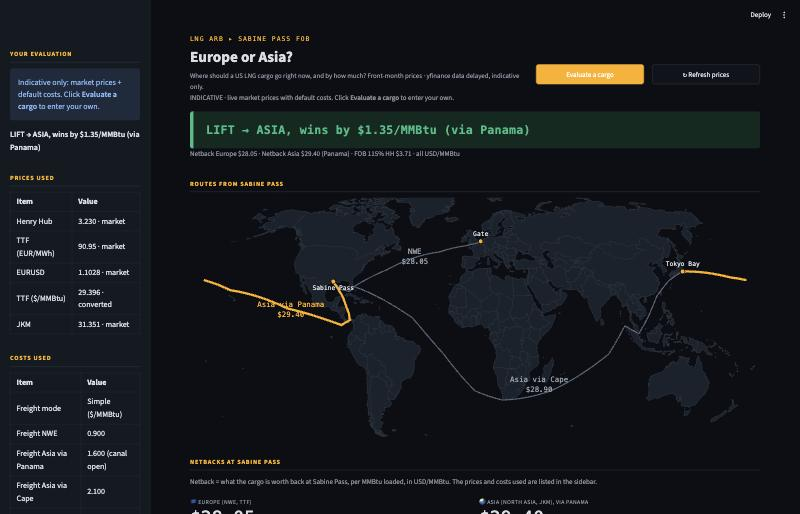
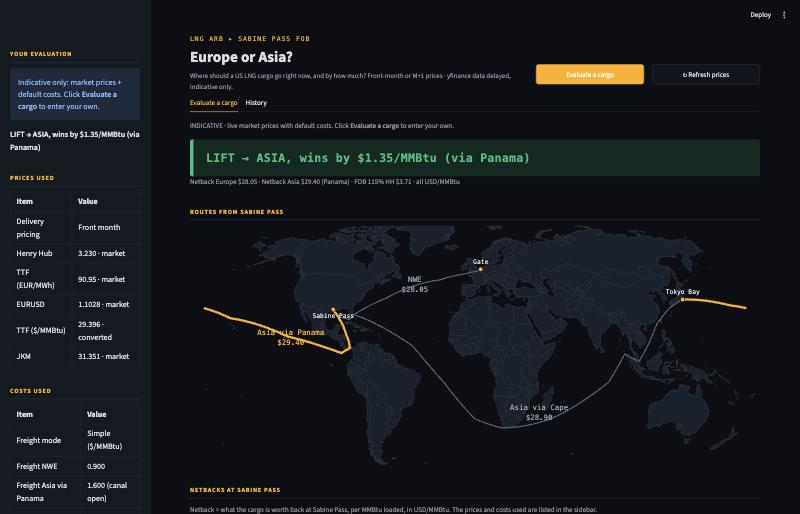
V3 complete: final check against the spec, retry after a failed history download, README and screenshots updated

diff --git a/app.py b/app.py
@@ -937,6 +937,9 @@ def history_tab():
         names = ", ".join(series.name for series in failed)
         st.error(f"Could not load the history for: {names}. Check your internet connection "
                  "and reload the page later. The 'Evaluate a cargo' tab still works.")
+        # Forget this failed attempt, so the next page load tries again
+        # (otherwise the failure would be kept in memory for 24 hours)
+        load_history.clear()
         return
 
     inputs = history_inputs()

diff --git a/README.md b/README.md
@@ -12,8 +12,12 @@ It also answers the offtaker's question behind it: **lift the cargo, or cancel i
 
 ## What it does
 
-1. **Pulls market prices** (delayed): Henry Hub, TTF and EURUSD, plus the latest JKM settlement.
-2. **Opens an "Evaluate a cargo" pop-up**. The gas prices are prefilled from the market and editable. Freight is entered in one of two modes:
+1. **Pulls market prices** (delayed): Henry Hub, TTF and EURUSD, the latest JKM settlement, and the HH and TTF contract months.
+2. **Opens an "Evaluate a cargo" pop-up**. The gas prices are prefilled from the market and editable. They can be priced two ways:
+   - **Front month:** HH and TTF front month.
+   - **M+1 delivery:** HH for the loading month (e.g. Dec-26) and TTF for the month the cargo arrives in Europe (Jan-27), the way a real cargo prices.
+
+   Freight is entered in one of two modes:
    - **Simple:** USD/MMBtu per route.
    - **Detailed:** a charter model (charter rate × round-trip days, Panama tolls, cargo size, boil-off), with a freight build-up table.
 3. **Gives the verdict straight away**, e.g. `LIFT → ASIA, wins by $0.90/MMBtu (via Panama)`, `LIFT → EUROPE`, `INDIFFERENT` or `CANCEL`.
@@ -23,11 +27,20 @@ It also answers the offtaker's question behind it: **lift the cargo, or cancel i
    - **breakeven charts** give the exact JKM and TTF levels where the cargo flips destination;
    - a **decision map** colours every JKM × freight combination by outcome.
 7. **Records what was done**: the sidebar keeps a summary of the evaluation, with every price labelled "market" or "your input".
-8. **Builds its own arb history**: every 5 minutes it re-prices the market and appends one row to a CSV log.
+8. **Logs the live arb**: every 5 minutes it re-prices the market and appends one row to a CSV log.
+9. **Shows 12 years of arb history** in a **History** tab: every month since mid-2014 priced with the same formulas, with
+   - the **arb over time**, one bar per month coloured by winner (the 2022 energy crisis, when Europe outbid Asia by up to $17/MMBtu, stands out);
+   - **win rates**: how often Europe, Asia, neither, or cancelling won, overall and per year;
+   - **seasonality**: the average spread per calendar month (Asia pays more from October to January);
+   - a **1Y / 3Y / 5Y / All** selector and a CSV download.
 
 ![Evaluate a cargo: detailed freight model](docs/evaluate_popup.jpg)
 
 ![Sensitivity: breakevens and decision map](docs/sensitivity.jpg)
+
+![History: the arb month by month since 2014](docs/history.jpg)
+
+![History: win rates by year and seasonality](docs/history_stats.jpg)
 
 ---
 
@@ -46,6 +59,8 @@ All values in **USD/MMBtu**, per MMBtu **loaded**.
 | Destination | `spread = Netback Asia − Netback Europe`. Below the threshold ($0.10 by default), the verdict is **Indifferent** |
 | Lift or cancel | The liquefaction fee is **sunk**, so the cargo is cancelled only if the best netback is below **115% HH**. A cargo can lose money after the fee and still be worth lifting |
 | Breakeven JKM | `regas Asia + (netback Europe + freight) ÷ (1 − boil-off)`, using the cheapest open Asia route |
+| M+1 delivery | Futures roll before the month starts, so in November the front month is December (loading) and M+1 is January (delivery). Yahoo tickers like `TTFF27.NYM` = TTF, **F** = January, 2027 |
+| History, per month | The same calculation, with that month's average HH, Europe gas and JKM prices and **today's** freight, regas and fees |
 
 *Netback = what the cargo is worth back at Sabine Pass after regasification, boil-off and shipping.*
 
@@ -57,7 +72,7 @@ All values in **USD/MMBtu**, per MMBtu **loaded**.
 
 - **One data module.** Every price enters through [`market_data.py`](market_data.py), as a standard `Quote` (value, unit, source, timestamp, status). No other file knows the vendor exists. Moving from yfinance to **Bloomberg, ICE or Platts** means changing that one file.
 - **Every price carries its source, timestamp and a status light.** 🟢 fresh (under 20 min) · 🟡 delayed (20 to 60 min) · 🔴 stale (over 60 min, or the fetch failed). A price converted from two inputs (TTF in USD) takes the older timestamp and the worse light.
-- **Never crashes on bad data.** If a feed is down, the app shows red lights, and the trader can still evaluate a cargo by typing prices. The map and charts still work.
+- **Never crashes on bad data.** If a feed is down, the app shows red lights, and the trader can still evaluate a cargo by typing prices. The map and charts still work. If the history can't be downloaded, the History tab says so and tries again on the next visit.
 - **Clear separation:**
   - formulas: [`arb_calc.py`](arb_calc.py)
   - data: [`market_data.py`](market_data.py)
@@ -66,11 +81,13 @@ All values in **USD/MMBtu**, per MMBtu **loaded**.
   - screens: [`app.py`](app.py)
   - settings: [`config.py`](config.py)
 - **Self-built history.** One CSV row per price refresh: 28 columns covering prices, timestamps, statuses, costs, netbacks, route, verdict and margins. Exactly one row per fetch, even with several browser tabs open.
-- **Tested.** 42 automated tests, including:
+- **Tested.** 61 automated tests, all offline, including:
   - hand-calculated arb cases;
   - the freight and boil-off worked example;
   - breakevens, checked to give a spread of exactly zero;
   - decision-map cells, including a route switch from Panama to the Cape;
+  - contract-month tickers (e.g. 14 Nov 2026 → `TTFZ26.NYM` front, `TTFF27.NYM` M+1; December rolls into the next year);
+  - the monthly history: JKM monthly averages, the arb per month, win rates and seasonality, against hand calculations;
   - the status-light rules, offline behaviour and the log.
 
 ---
@@ -83,11 +100,16 @@ All values in **USD/MMBtu**, per MMBtu **loaded**.
 | TTF (`TTF=F`) | yfinance | Delayed, front month, EUR/MWh |
 | EURUSD (`EURUSD=X`) | yfinance | Delayed |
 | JKM (`JKM=F`) | yfinance | **Daily settlement only** (CME JKM futures, settled on Platts). Used as an editable prefill |
+| HH and TTF contract months (e.g. `NGZ26.NYM`, `TTFF27.NYM`) | yfinance | Delayed. Used for M+1 delivery pricing. No JKM contract months on Yahoo, so JKM stays the daily settlement |
+| Europe gas history (`PNGASEUUSDM`) | FRED (IMF) | Monthly average, USD/MMBtu, TTF-based |
+| Henry Hub history (`PNGASUSUSDM`) | FRED (IMF) | Monthly average, USD/MMBtu |
+| JKM history (`JKM=F`) | yfinance | Daily settlements since Jul-2014, averaged by month |
 | Freight, voyage days, charter rate, regas, fees | Trader input | No free market feed. Detailed-mode defaults are editable placeholders |
 
 - yfinance data is **delayed and unofficial**: indicative only, **not for trading**.
-- Front-month prices everywhere. A real cargo loading in month M usually prices on M+1.
-- The history only builds while the app is open in a browser.
+- The History tab is **monthly** and applies **today's** freight, regas and fees to every month (their history isn't free anywhere), so it shows how gas prices alone moved the arb. FRED's Europe series is an IMF monthly average, close to but not exactly TTF.
+- The 5-minute refresh log uses front-month prices and only builds while the app is open in a browser.
+- M+1 pricing doesn't handle the few days around expiry specially.
 - Boil-off is applied on the laden leg only. Bunker fuel, port costs and the Suez route are not modelled.
 - Map routes are simplified sea lanes, not exact shipping tracks.
 
@@ -118,16 +140,16 @@ pytest
 
 ```
 lng_arbitrage/
-├── app.py                 # Screens: pop-up, sidebar summary, map, breakdown, charts, live market, log
-├── market_data.py         # THE data module: fetches prices, returns Quote objects
-├── arb_calc.py            # Pure formulas: netbacks, freight & boil-off, breakevens, decision grid
-├── charts.py              # Plotly route map, breakeven charts, decision heatmap (display only)
-├── arb_log.py             # CSV history: one row per price refresh
-├── config.py              # Tickers, default costs, voyage defaults, map coordinates, thresholds
+├── app.py                 # Screens: Evaluate and History tabs, pop-up, sidebar summary, live market, log
+├── market_data.py         # THE data module: prices, contract months, monthly history (Quote and History objects)
+├── arb_calc.py            # Pure formulas: netbacks, freight & boil-off, breakevens, decision grid, history stats
+├── charts.py              # Plotly map and charts: breakevens, heatmap, arb over time, win rates, seasonality
+├── arb_log.py             # CSV refresh log: one row per price refresh
+├── config.py              # Tickers, FRED series, default costs, voyage defaults, map coordinates, thresholds
 ├── .streamlit/config.toml # Dark trading-terminal theme
-├── tests/                 # 42 pytest tests
+├── tests/                 # 61 pytest tests
 ├── docs/                  # Screenshots
-├── SPEC.md                # Full specification (V1 and V2: scope, formulas, screens, done criteria)
+├── SPEC.md                # Full specification (V1, V2 and V3: scope, formulas, screens, done criteria)
 └── requirements.txt       # Pinned library versions
 ```
 
@@ -139,7 +161,8 @@ lng_arbitrage/
 |---|---|---|
 | **V1** | Calculator with market data, cargo evaluation pop-up, status lights, auto refresh and refresh log | ✅ Done |
 | **V2** | Freight & boil-off model, dark terminal design, route map, breakeven charts, decision heatmap | ✅ Done |
-| **V3** | Historical arb analysis from the refresh log, M+1 delivery-month pricing | Planned |
+| **V3** | Historical arb since 2014 (FRED + Yahoo): arb over time, win rates, seasonality; M+1 delivery pricing | ✅ Done |
+| Next | Publish online on Streamlit Community Cloud | Planned |
 
 ---
 

diff --git a/CLAUDE.md b/CLAUDE.md
@@ -5,7 +5,7 @@
 - **Owner:** a former gas trader (TTF, biomethane), now on the LBS Master in Financial Analysis and **learning Python**. They know the market well; Python is new to them.
 - **Goal:** a CV project. A Streamlit dashboard that answers "should a US LNG cargo from Sabine Pass go to Europe or Asia right now, and by how much?"
 - **Full scope and formulas:** see [SPEC.md](SPEC.md). SPEC.md is the source of truth. If code and spec disagree, ask before changing either.
-- **Versions:** V1 (calculator, live data, "Evaluate a cargo" pop-up) is **done**. V2 (freight & boil-off model, dark terminal design, route map, sensitivity charts; SPEC.md section 12) is **done**: all criteria in SPEC.md 12.6 checked. **V3 is in progress**: historical arb analysis (free monthly history: FRED + Yahoo) and M+1 delivery pricing. Its spec is SPEC.md section 13. After V3: publish on Streamlit Community Cloud (the owner wants the whole site finished first).
+- **Versions:** V1 (calculator, live data, "Evaluate a cargo" pop-up) is **done**. V2 (freight & boil-off model, dark terminal design, route map, sensitivity charts; SPEC.md section 12) is **done**: all criteria in SPEC.md 12.6 checked. V3 (historical arb analysis from free monthly history: FRED + Yahoo, and M+1 delivery pricing; SPEC.md section 13) is **done**: all criteria in SPEC.md 13.7 checked. **Next:** publish on Streamlit Community Cloud (the owner does the sign-in).
 - **GitHub:** https://github.com/Jalil-122/lng_arbitrage. After committing, `git push` uploads (the owner's token is saved in the macOS Keychain; never handle tokens).
 
 ## Architecture rules (desk-tool design)
@@ -29,7 +29,7 @@
 4. Don't add libraries, files or features that aren't in SPEC.md without asking first.
 5. When you teach a new Python or Streamlit idea for the first time, add a one- or two-line explanation.
 
-## V3 build order
+## V3 build order (done)
 
 1. M+1 contract months: month-code logic + contract quotes in `market_data.py`, with tests (SPEC 13.4).
 2. Pop-up "Delivery pricing" switch (Front month / M+1) + TTF M+1 row in the live market panel.

diff --git a/SPEC.md b/SPEC.md
@@ -16,7 +16,7 @@ The tool is built like a trading desk tool. Every price passes through **one dat
 |---|---|
 | **V1** ✅ done | Calculator with live delayed prices (HH, TTF, EURUSD), JKM daily settlement as an editable prefill, "Evaluate a cargo" pop-up, auto refresh, a status light for each price, and a refresh log |
 | **V2** ✅ done (section 12) | Freight & boil-off model, dark trading-terminal design, route map, sensitivity charts (breakeven lines, decision heatmap) |
-| **V3** (section 13) | Historical arb analysis (free monthly history from FRED + Yahoo: arb over time, win rates, seasonality) and M+1 delivery pricing |
+| **V3** ✅ done (section 13) | Historical arb analysis (free monthly history from FRED + Yahoo: arb over time, win rates, seasonality) and M+1 delivery pricing |
 
 Sections 1–11 describe V1. Section 12 describes V2 and section 13 describes V3; each overrides the earlier ones where they differ.
 
